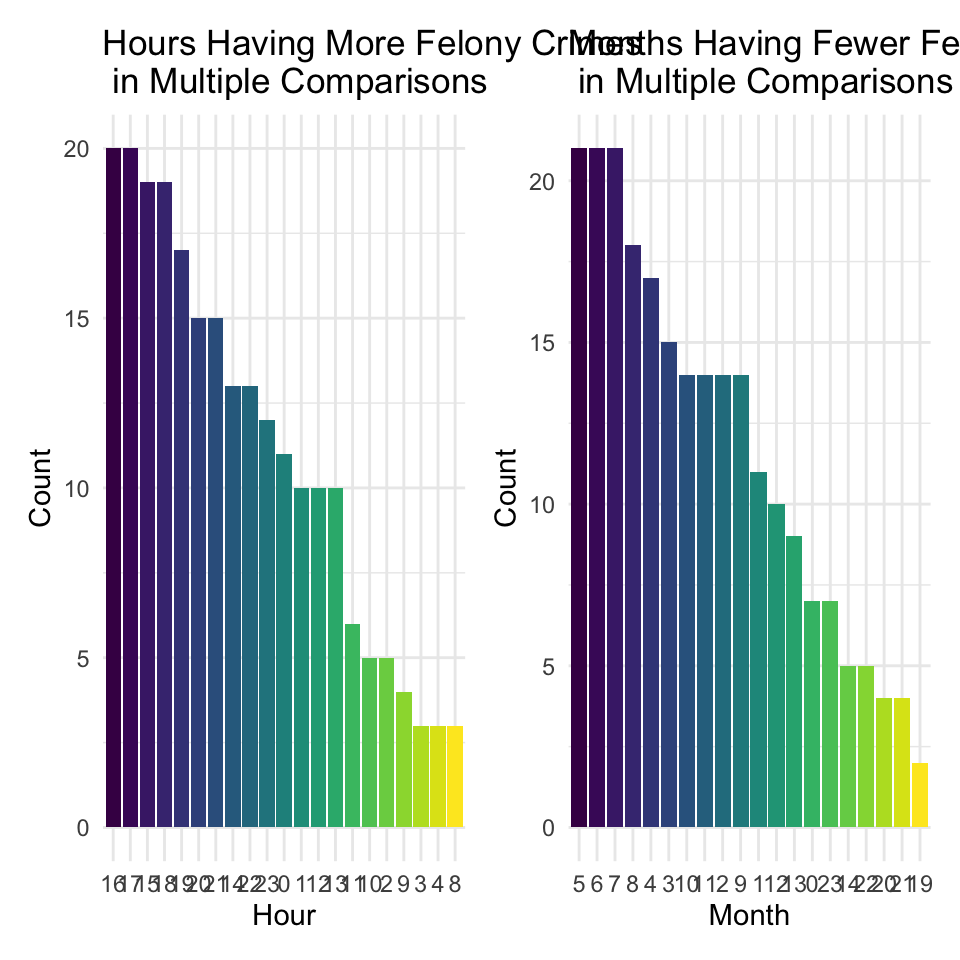
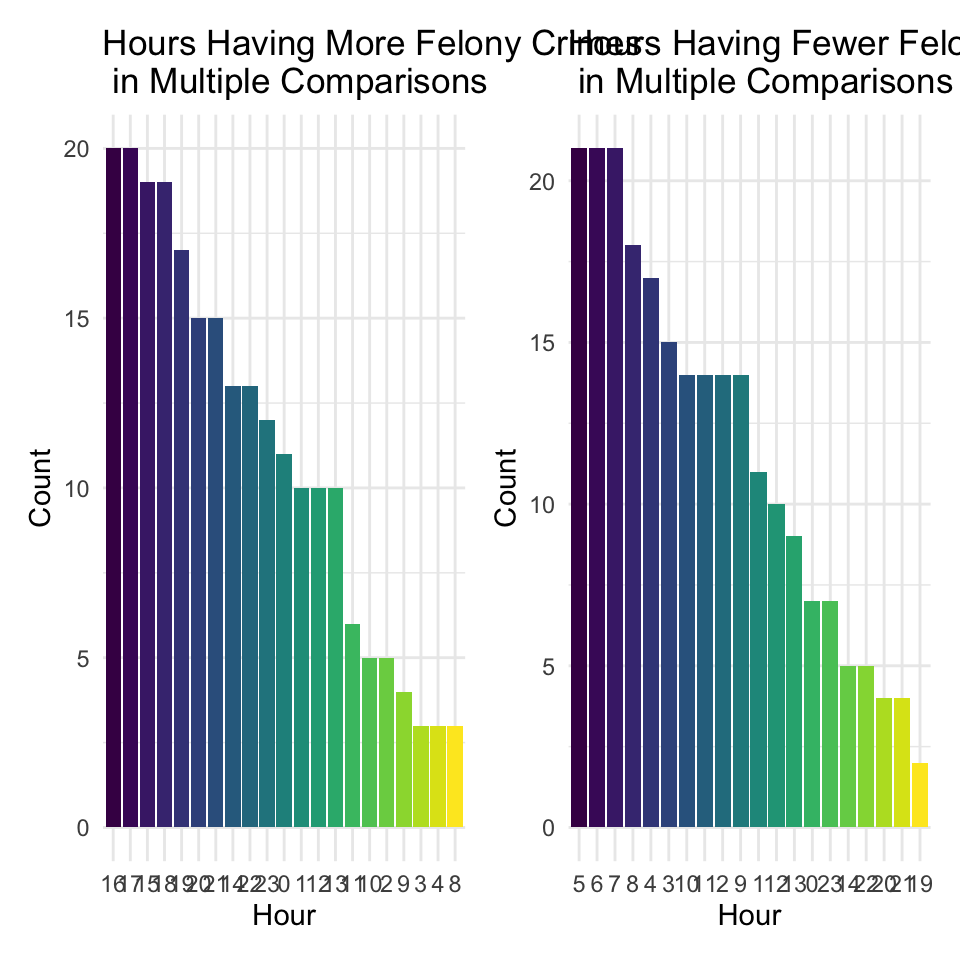
I add some intepretation about hour-level model, and analize detailed difference of level among each hour

Changed region(s): [[0.5938, 0.0312, 1.0, 0.0625], [0.7188, 0.9375, 0.8125, 0.9688]]

diff --git a/code/Hypothesis-testing-and-linear-model.html b/code/Hypothesis-testing-and-linear-model.html
@@ -643,6 +643,17 @@ dangerous hour is 12:00 - 21:00, all of them are at high ranks in the
 left figure. Comparatively, 1:00 - 9:00 is the most peaceful time. But
 it’s our consensus that midnights are more hazardous. So we questioned
 on if more server levels of crime take place more in the midnights.</p>
+<p>We use group_by and summarize function to get the number of cases in
+each level, hour, month and year, and select the data which level equals
+FELONY, then use the number of cases and hour_level to make an ANOVA
+model to test whether there is a significant difference of level of
+crime cases among each hour. Then, we use Turkey methods to analyze the
+ANOVA model, select the variables which p-value are smaller than 0.05,
+and arrange them by adj p_value. Then, we separate the contrast to A and
+B and add two variables “high” and “low” depending on whether estimate
+is larger than 0 to decide how A and B to fit high and low. Finally, we
+make a two panel plot to show the order of the hours become “high” and
+“low” in the process of comparing.</p>
 <pre class="r"><code>hour_level = data %&gt;% 
   group_by(year, month, hour, level) %&gt;% 
   filter(level == &quot;FELONY&quot;) %&gt;% 
@@ -707,8 +718,8 @@ aov_fig5 &lt;- level_group %&gt;%
 aov_fig6 &lt;- level_group %&gt;% 
   ggplot(aes(x = low, fill = low)) +
   geom_bar(stat = &quot;count&quot;) +
-  labs(x = &quot;Month&quot;, y = &quot;Count&quot;,title = 
-         &quot;Months Having Fewer Felony Crimes \n in Multiple Comparisons&quot;) + guides(fill = &quot;none&quot;)
+  labs(x = &quot;Hour&quot;, y = &quot;Count&quot;,title = 
+         &quot;Hours Having Fewer Felony Crimes \n in Multiple Comparisons&quot;) + guides(fill = &quot;none&quot;)
 
 aov_fig5 + aov_fig6</code></pre>
 <p><img src="Hypothesis-testing-and-linear-model_files/figure-html/unnamed-chunk-5-1.png" width="60%" /></p>
